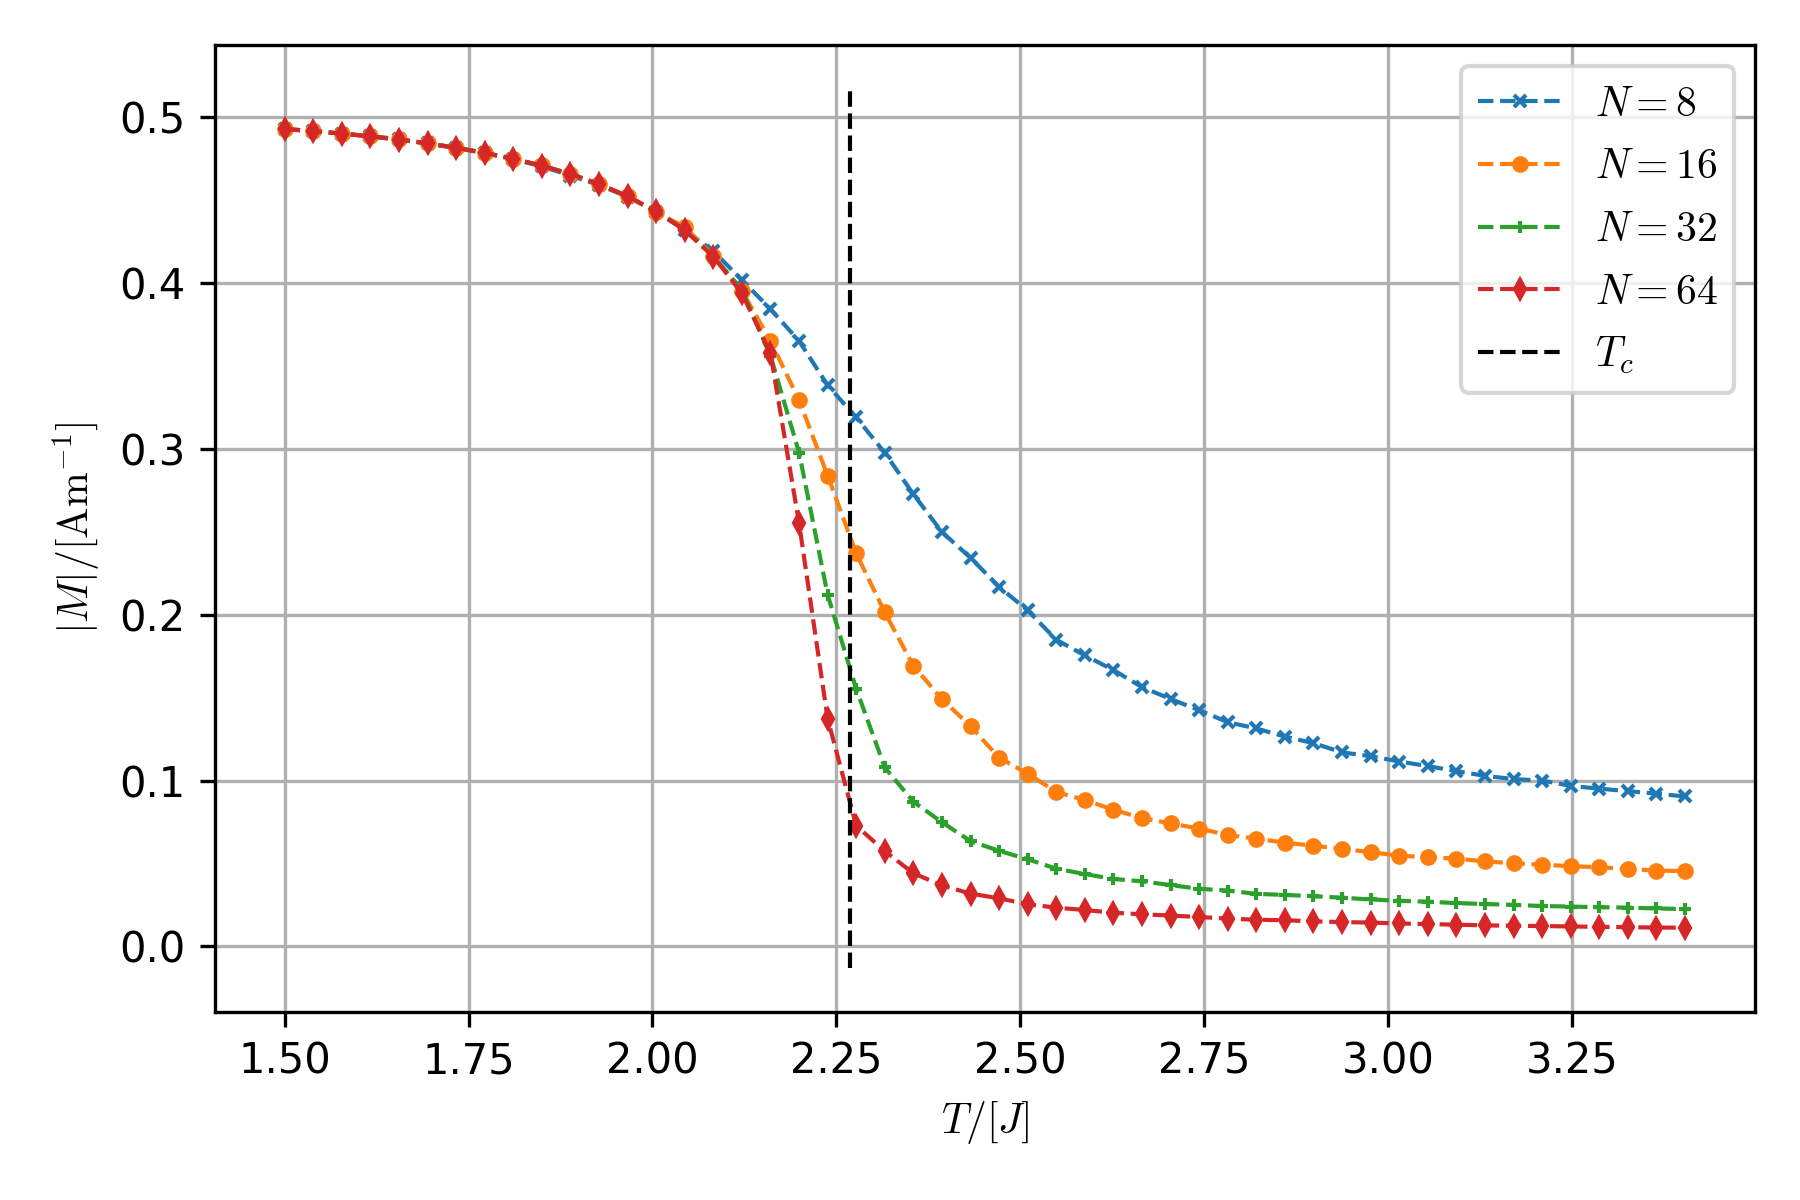
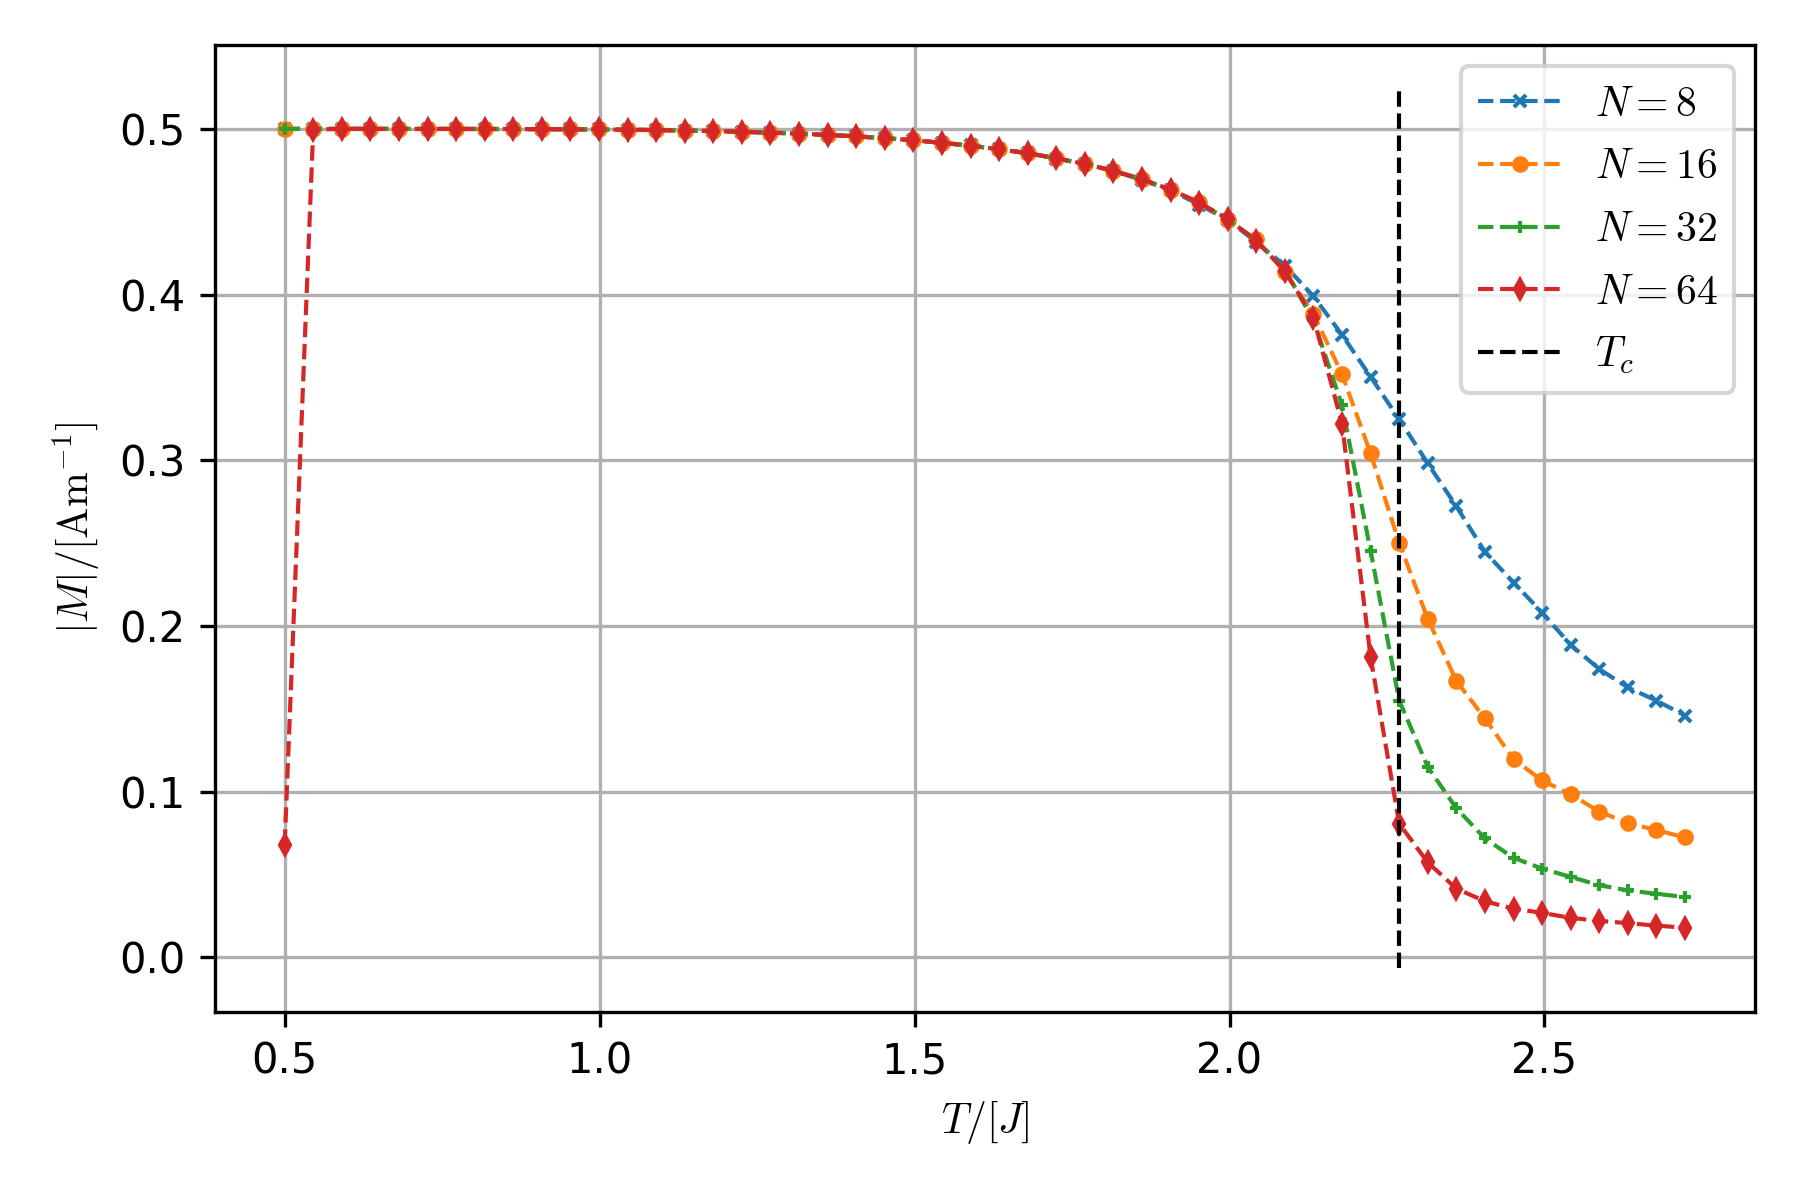
what to do, what to do?

diff --git a/plots.py b/plots.py
@@ -51,7 +51,7 @@ def vals(sub_dir):
         ax.set_xlabel("$T / [J]$")
 
         for i, N in enumerate(Ns):
-            ax.plot(Ts, samples[quantity][i] / 2, styles[i], label="$N={}$".format(int(N)))
+            ax.plot(Ts, samples[quantity][i] / 2, styles[i%len(styles)], label="$N={}$".format(int(N)))
         ax.plot([Tc, Tc], ax.get_ylim(), "k--", label="$T_c$")
         ax.grid(True)
         ax.legend()        
@@ -73,7 +73,7 @@ def funcs(sub_dir=""):
 
         y = func_of_obs[quantity](samples, Ts, Ns)
         for i, N in enumerate(Ns):
-            ax.plot(Ts, y[i] / 2, styles[i], label="$N={}$".format(int(N)))
+            ax.plot(Ts, y[i] / 2, styles[i%len(styles)], label="$N={}$".format(int(N)))
         ax.plot([Tc, Tc], ax.get_ylim(), "k--", label="$T_c$")
         ax.grid(True)
         ax.legend()
@@ -94,7 +94,7 @@ def susc(sub_dir):
     ax.set_ylabel("$" + quantity + "/[\\mathrm{" + units[quantity] + "}]$")
     ax.set_xlabel("$T / [J]$")
     for i, N in enumerate(Ns):
-        ax.plot(Ts, samples[quantity][i], styles[i], label="$N={}$".format(int(N)))
+        ax.plot(Ts, samples[quantity][i], styles[i%len(styles)], label="$N={}$".format(int(N)))
     Ts2 = np.linspace(1.5, Tc, 1000)
     ax.plot(Ts2, (1 - np.sinh(2/ Ts2)**(-4))**(1 / 8), "--", label="Analytical sol.")
     ax.legend()
@@ -105,12 +105,13 @@ def susc(sub_dir):
 
 
 def time_dependence(sub_dir):
-    times = read_times(sub_dir)
+    times, times_MJ = read_times(sub_dir)
     Ns, _, _ = read_samples(list(observables), sub_dir=sub_dir)
     fig_path = "figs/" + sub_dir
 
     fig, ax = plt.subplots(figsize=(6, 4))
     ax.plot(Ns, times, "x", label="$t$")
+    ax.plot(Ns, times_MJ, "+", label="$t$")
     plt.savefig(fig_path + "times.png")
     plt.close(fig)
 
@@ -137,33 +138,36 @@ def Mon_Jasnow(sub_dir):
 
 
 def more(sub_dir):
+    """ What the fuuuuck??!?! """
+
     Ns, Ts, samples = read_samples(list(observables), sub_dir=sub_dir)
     name = "tau_MJ"
     tau = tension(samples, Ts, Ns)
-    tau_MJ = read(sub_dir, name)
+    # tau = read(sub_dir, name)
     fig_path = "figs/" + sub_dir
     if not path.isdir(fig_path):
         mkdir(fig_path)
     
-    fig, ax = plt.subplots(3)
-    for i, t in enumerate(reudced_temp(Ts)):
-        ax.plot(tau[:, i] / t, 1 / (Ns * t), ".", label="$t = {}$".format(t))
-    ax.legend()
+    fig, ax = plt.subplots()
+    m = 38
+    ax.set_title("$T = {}$".format(Ts[m]))
+    ax.loglog(tau[:, m], Ns)
     plt.show()
 
     fig, ax = plt.subplots()
-    ax.loglog(tau_MJ[:, 7], Ns)
+    for i, t in enumerate(reudced_temp(Ts[30:40:2])):
+        ax.plot(tau[:, i] / t, 1 / (Ns * t), "--+", label="$t = {}$".format(t))
+        ax.legend()
     plt.show()
 
     fig, ax = plt.subplots(2)
+    print(np.shape(tau))
     for i, N in enumerate(Ns):
         ax[0].plot(Ts, tau[i], styles[i], label="$N={}$".format(int(N)))
-        ax[0].plot(Ts, tau_MJ[i], styles[i], label="$N={}, ext$".format(int(N)))
     for i, T in enumerate(Ts):
-        ax[0].plot(Ts, tau[:, i], styles[i], label="$T={}$".format(int(T)))
-        ax[0].plot(Ts, tau_MJ[:, i], styles[i], label="$T={}, ext$".format(int(T)))
+        ax[1].plot(Ns, Ns*tau[:, i], "--x", label="$T={}$".format(int(T)))
     plt.show()
 
 
 if __name__ == "__main__":
-    loglog("test/")
+    more("quantities/")

diff --git a/main.py b/main.py
@@ -5,15 +5,15 @@ import numpy as np
 from physical_quantities import observables, Tc
 from time import time
 
-equib = 100_000
-n = 100_000
+equib = 1_00
+n = 1_00
 sub_dir = "quantities/"
 
 # number of different tempratures to simulate
-temps = 50
-Ts = np.linspace(0.5, 1.2*Tc, temps)
+temps = 20
+Ts = np.linspace(1.5, 1.2*Tc, temps)
 # The different sizes of the grid to simutale
-Ns = [8, 16, 32, 64]
+Ns = [8, 12, 16, 20, 24]
 sizes = len(Ns)
 
 
@@ -27,7 +27,6 @@ def sample_observables(sub_dir):
     for i, N in enumerate(Ns):
         for j, T in enumerate(Ts):
             t = time()
-
             samples = get_samples(N, T, n, equib, observables)
             for k, key in enumerate(samples_dict):
                 samples_dict[key][i, j] = samples[k]
@@ -35,21 +34,24 @@ def sample_observables(sub_dir):
             bar.next()
             times[i] += time() - t
 
-    
     bar.finish()
     write_samples(samples_dict, Ns, Ts, times, sub_dir=sub_dir)
 
 
 def run_mon_jas(sub_dir):
     tau = np.empty((sizes, temps))
-    bar = Bar("sampling", max=temps*sizes)
+    bar = Bar("sampling", max=temps * sizes)
+    times = np.zeros(sizes)
     for i, N, in enumerate(Ns):
         for j, T in enumerate(Ts):
+            t = time()
             tau[i, j] =  Mon_Jasnow(N, T, n, equib)
             bar.next()
+            times[i] += time() - t
     bar.finish()
 
     write(tau, sub_dir, "tau_MJ")
+    write(times, sub_dir, "times_MJ")
 
 
 def full_suite(sub_dir="test/", gen_data=False):
@@ -59,12 +61,12 @@ def full_suite(sub_dir="test/", gen_data=False):
         sample_observables(sub_dir)
         run_mon_jas(sub_dir)
     
-    plots.vals(sub_dir)
-    plots.funcs(sub_dir)
-    plots.susc(sub_dir)
+    # plots.vals(sub_dir)
+    # plots.funcs(sub_dir)
+    # plots.susc(sub_dir)
     plots.time_dependence(sub_dir)
-    plots.Mon_Jasnow(sub_dir)
+    # plots.Mon_Jasnow(sub_dir)
 
 
 if __name__ == "__main__":
-    full_suite(sub_dir = sub_dirgen_data=True)
+    full_suite(gen_data=True)

diff --git a/utilities.py b/utilities.py
@@ -133,4 +133,4 @@ def read_times(sub_dir):
     if not path.isdir(data_path):
         raise Exception("Direcotry does not exist")
     
-    return np.loadtxt(data_path + "times.csv")
+    return np.loadtxt(data_path + "times.csv"), np.loadtxt(data_path + "times_MJ.csv")
